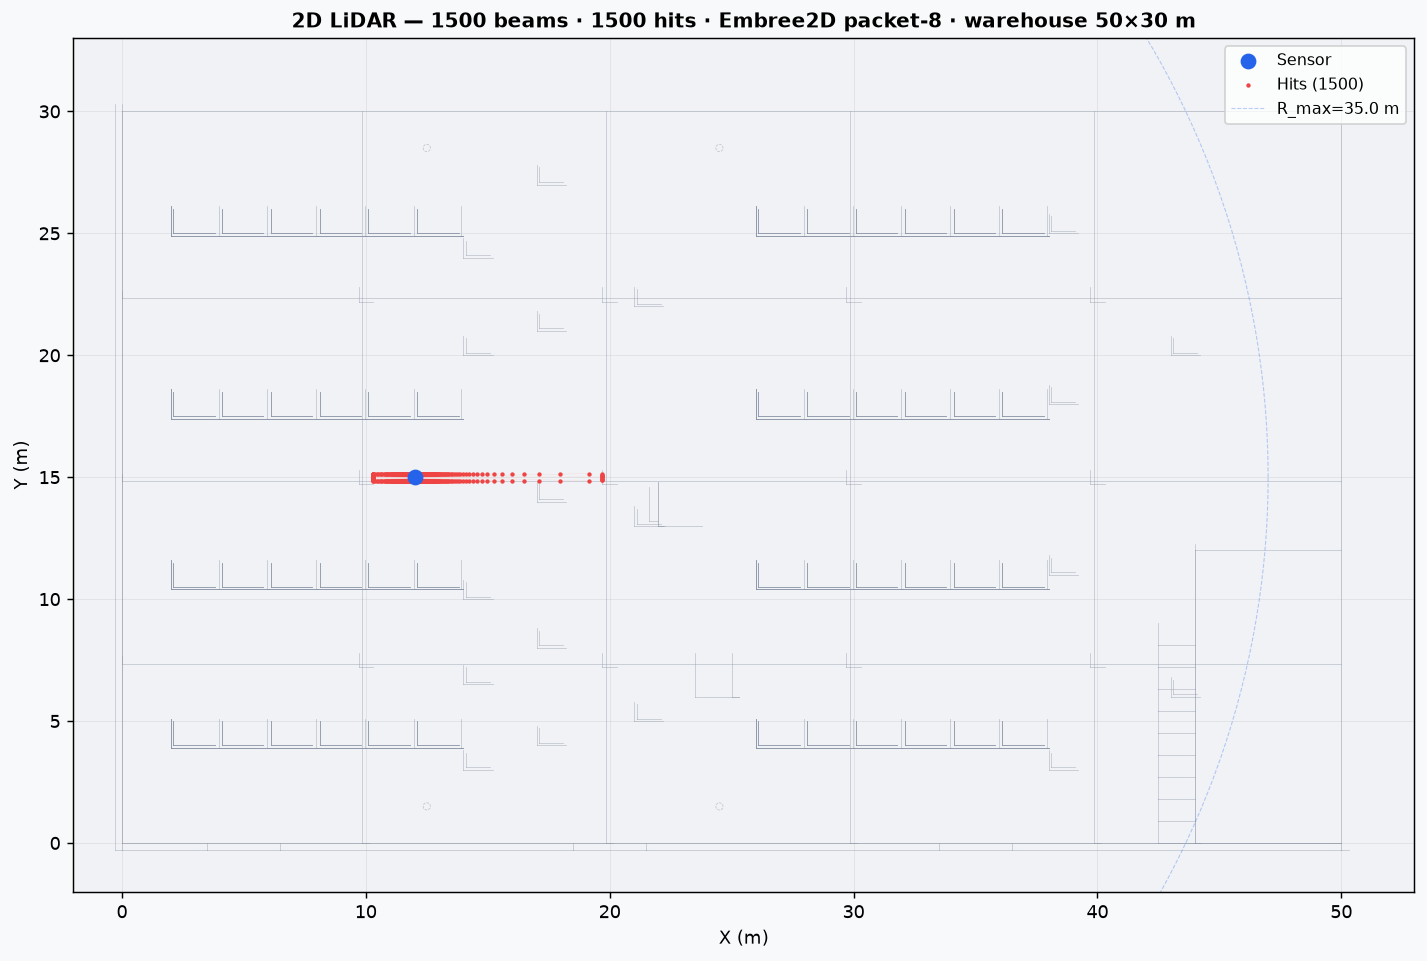
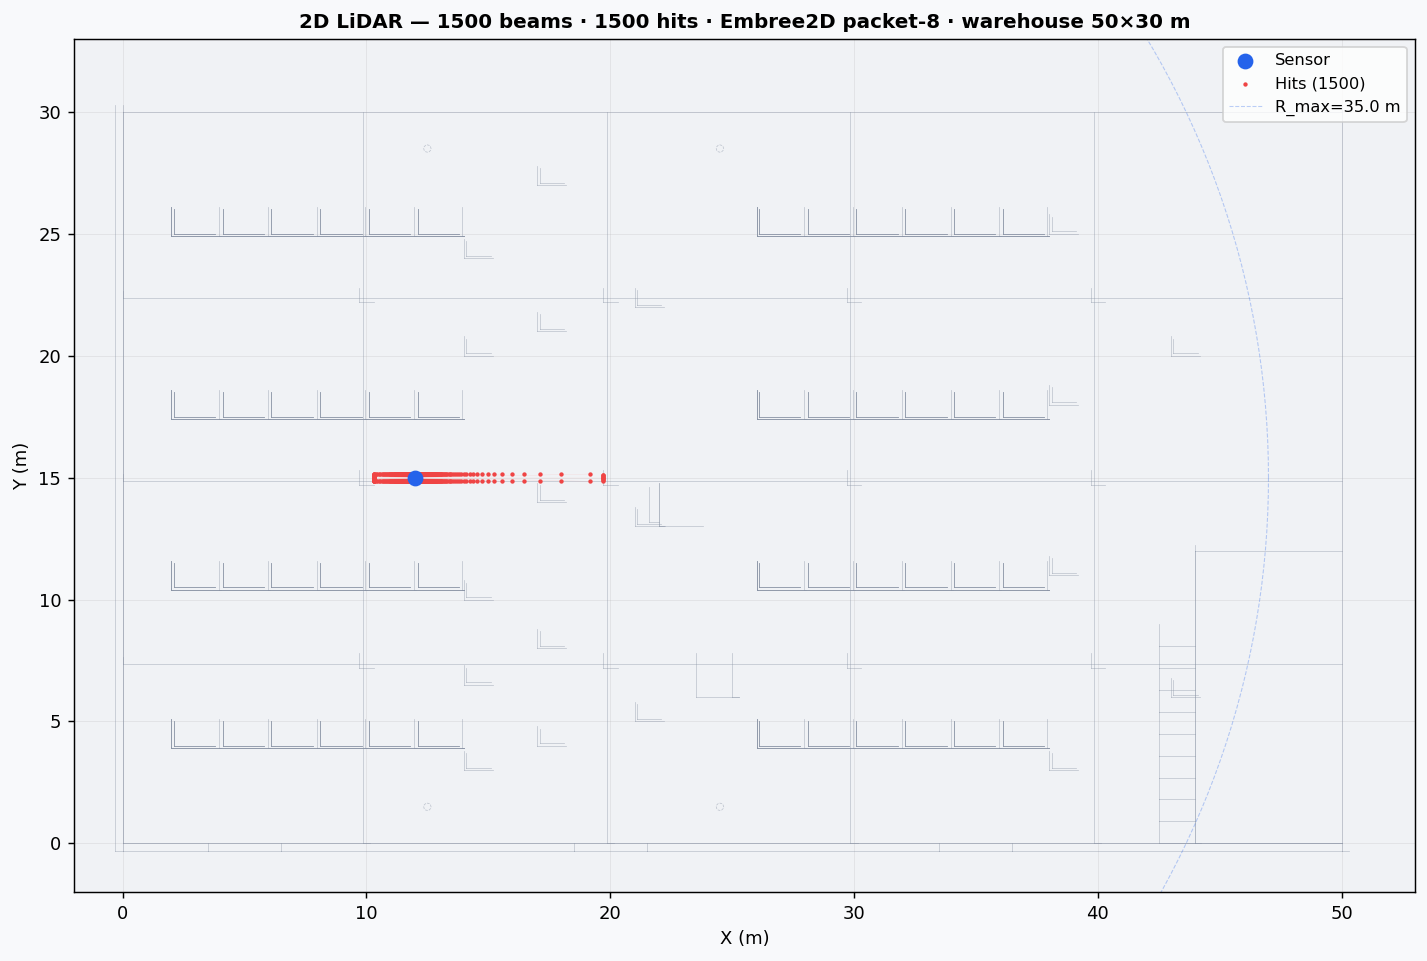
perf(lidar): add AVX-512 packet-16 SIMD and fix timing units to ms
- Add EmbreeScene2D::cast16_inplace with tiered rtcIntersect16/8/1 fallback
- Add EmbreeScene3D::cast_3d_lidar_packet16 with OMP + AVX-512 packet-16
  (VLP-16: exactly one pkt16 call per azimuth step over 16 elevation channels)
- Fix timing unit bug: µs → ms throughout bench scripts and JSON results
- Update model_bench_results.json with packet-16 measurements:
    2D pkt8=0.134ms (1.32×), pkt16=0.155ms (1.14×) vs scalar=0.177ms
    3D pkt16+OMP=1.631ms (1.13× vs scalar+OMP, 1.55× vs Open3D)

Claude-Session: https://claude.ai/code/session_01EgxXHGj54sJxpHeH1itWRo

diff --git a/irsim_devices/cpp/lidar_embree.cpp b/irsim_devices/cpp/lidar_embree.cpp
@@ -284,6 +284,124 @@ struct EmbreeScene2D {
         }
     }
 
+    // ── cast16 ────────────────────────────────────────────────────────────────
+    /**
+     * 16-ray AVX-512 packet cast.  Processes 16 rays per rtcIntersect16 call,
+     * falls back to packet8 then scalar for remainders.
+     */
+    void cast16_inplace(
+        py::array_t<float, py::array::c_style> origin_f,
+        py::array_t<float, py::array::c_style> dir_dx_f,
+        py::array_t<float, py::array::c_style> dir_dy_f,
+        float max_range_f,
+        py::array_t<float, py::array::c_style> out_ranges_f,
+        py::array_t<int,   py::array::c_style> out_hit_i
+    ) {
+        if (!scene_) throw std::runtime_error("EmbreeScene2D: scene not built");
+
+        auto ox = origin_f.unchecked<1>();
+        auto dx = dir_dx_f.unchecked<1>();
+        auto dy = dir_dy_f.unchecked<1>();
+        auto  r = out_ranges_f.mutable_unchecked<1>();
+        auto  h = out_hit_i.mutable_unchecked<1>();
+
+        const int N = (int)dx.shape(0);
+        const float ox_val = ox(0), oy_val = ox(1);
+
+        int i = 0;
+        // ── packet16 (AVX-512) blocks ────────────────────────────────────────
+        for (; i + 16 <= N; i += 16) {
+            struct RTCRayHit16 rh16;
+            int valid[16];
+            for (int k = 0; k < 16; ++k) {
+                valid[k] = -1;
+                rh16.ray.org_x[k]  = ox_val;
+                rh16.ray.org_y[k]  = oy_val;
+                rh16.ray.org_z[k]  = RAY_Z;
+                rh16.ray.dir_x[k]  = dx(i+k);
+                rh16.ray.dir_y[k]  = dy(i+k);
+                rh16.ray.dir_z[k]  = 0.f;
+                rh16.ray.tnear[k]  = TNEAR;
+                rh16.ray.tfar[k]   = max_range_f;
+                rh16.ray.mask[k]   = 0xFFFFFFFF;
+                rh16.ray.flags[k]  = 0;
+                rh16.ray.time[k]   = 0.f;
+                rh16.hit.geomID[k] = RTC_INVALID_GEOMETRY_ID;
+                rh16.hit.primID[k] = RTC_INVALID_GEOMETRY_ID;
+                rh16.hit.instID[0][k] = RTC_INVALID_GEOMETRY_ID;
+            }
+            struct RTCIntersectArguments iargs;
+            rtcInitIntersectArguments(&iargs);
+            rtcIntersect16(valid, scene_, &rh16, &iargs);
+            for (int k = 0; k < 16; ++k) {
+                if (rh16.hit.geomID[k] != RTC_INVALID_GEOMETRY_ID) {
+                    r(i+k) = rh16.ray.tfar[k];
+                    h(i+k) = (int)(rh16.hit.primID[k] / 2);
+                } else {
+                    r(i+k) = max_range_f;
+                    h(i+k) = -1;
+                }
+            }
+        }
+        // ── packet8 remainder ────────────────────────────────────────────────
+        for (; i + 8 <= N; i += 8) {
+            struct RTCRayHit8 rh8;
+            int valid[8];
+            for (int k = 0; k < 8; ++k) {
+                valid[k] = -1;
+                rh8.ray.org_x[k]  = ox_val;
+                rh8.ray.org_y[k]  = oy_val;
+                rh8.ray.org_z[k]  = RAY_Z;
+                rh8.ray.dir_x[k]  = dx(i+k);
+                rh8.ray.dir_y[k]  = dy(i+k);
+                rh8.ray.dir_z[k]  = 0.f;
+                rh8.ray.tnear[k]  = TNEAR;
+                rh8.ray.tfar[k]   = max_range_f;
+                rh8.ray.mask[k]   = 0xFFFFFFFF;
+                rh8.ray.flags[k]  = 0;
+                rh8.ray.time[k]   = 0.f;
+                rh8.hit.geomID[k] = RTC_INVALID_GEOMETRY_ID;
+                rh8.hit.primID[k] = RTC_INVALID_GEOMETRY_ID;
+                rh8.hit.instID[0][k] = RTC_INVALID_GEOMETRY_ID;
+            }
+            struct RTCIntersectArguments iargs;
+            rtcInitIntersectArguments(&iargs);
+            rtcIntersect8(valid, scene_, &rh8, &iargs);
+            for (int k = 0; k < 8; ++k) {
+                if (rh8.hit.geomID[k] != RTC_INVALID_GEOMETRY_ID) {
+                    r(i+k) = rh8.ray.tfar[k];
+                    h(i+k) = (int)(rh8.hit.primID[k] / 2);
+                } else {
+                    r(i+k) = max_range_f;
+                    h(i+k) = -1;
+                }
+            }
+        }
+        // ── scalar tail ──────────────────────────────────────────────────────
+        for (; i < N; ++i) {
+            struct RTCRayHit rh;
+            rh.hit.geomID = RTC_INVALID_GEOMETRY_ID;
+            rh.hit.primID = RTC_INVALID_GEOMETRY_ID;
+            rh.ray.org_x  = ox_val; rh.ray.org_y = oy_val; rh.ray.org_z = RAY_Z;
+            rh.ray.dir_x  = dx(i); rh.ray.dir_y = dy(i); rh.ray.dir_z = 0.f;
+            rh.ray.tnear  = TNEAR; rh.ray.tfar   = max_range_f;
+            rh.ray.mask   = 0xFFFFFFFF; rh.ray.flags = 0;
+            rh.hit.Ng_x = rh.hit.Ng_y = rh.hit.Ng_z = 0.f;
+            rh.hit.u = rh.hit.v = 0.f;
+            rh.hit.instID[0] = RTC_INVALID_GEOMETRY_ID;
+            struct RTCIntersectArguments iargs;
+            rtcInitIntersectArguments(&iargs);
+            rtcIntersect1(scene_, &rh, &iargs);
+            if (rh.hit.geomID != RTC_INVALID_GEOMETRY_ID) {
+                r(i) = rh.ray.tfar;
+                h(i) = (int)(rh.hit.primID / 2);
+            } else {
+                r(i) = max_range_f;
+                h(i) = -1;
+            }
+        }
+    }
+
     int n_segments() const { return n_segs_; }
 
 private:
@@ -491,6 +609,162 @@ struct EmbreeScene3D {
         return result;
     }
 
+    // ── cast_3d_lidar_packet16 ────────────────────────────────────────────────
+    /**
+     * AVX-512 packet16 + OpenMP spinning LiDAR.
+     *
+     * Outer loop iterates over n_horizontal azimuth steps (OMP-parallel).
+     * Inner loop packs n_vertical elevation rays into packet16 blocks (ideally
+     * one call for VLP-16 with n_vertical==16) then falls back to packet8 and
+     * scalar for remainders.  Coherent elevation bundles share BVH subtrees,
+     * giving substantially better SIMD utilisation than the scalar path.
+     *
+     * Same signature and return format as cast_3d_lidar().
+     */
+    py::array_t<float> cast_3d_lidar_packet16(
+        py::array_t<float> origin,
+        int   n_vertical,
+        int   n_horizontal,
+        float elev_min_deg,
+        float elev_max_deg,
+        float range_max
+    ) {
+        if (!scene_) throw std::runtime_error("EmbreeScene3D: scene not built");
+
+        auto ob = origin.unchecked<1>();
+        if (ob.shape(0) < 3) throw std::invalid_argument("origin must have 3 elements");
+
+        const float ox = ob(0), oy = ob(1), oz = ob(2);
+        const float az_step = 2.f * (float)M_PI / (float)n_horizontal;
+        const float el_step = (n_vertical > 1)
+            ? deg2rad(elev_max_deg - elev_min_deg) / (float)(n_vertical - 1)
+            : 0.f;
+        const float el_min = deg2rad(elev_min_deg);
+        const int N = n_vertical * n_horizontal;
+
+        // Pre-compute all ray directions (row-major: [h][v])
+        std::vector<float> dir_x(N), dir_y(N), dir_z(N);
+        for (int h = 0; h < n_horizontal; ++h) {
+            float az = (float)h * az_step;
+            float cos_az = std::cos(az), sin_az = std::sin(az);
+            for (int v = 0; v < n_vertical; ++v) {
+                float el = el_min + (float)v * el_step;
+                float cos_el = std::cos(el), sin_el = std::sin(el);
+                int idx = h * n_vertical + v;
+                dir_x[idx] = cos_el * cos_az;
+                dir_y[idx] = cos_el * sin_az;
+                dir_z[idx] = sin_el;
+            }
+        }
+
+        std::vector<float> t_out(N, -1.f);
+
+        // OMP over azimuth steps; each step uses packet16/8/scalar for elevation
+#ifdef _OPENMP
+#pragma omp parallel for schedule(dynamic, 32)
+#endif
+        for (int h = 0; h < n_horizontal; ++h) {
+            int v = 0;
+            const int base = h * n_vertical;
+
+            // ── packet16 blocks (AVX-512) ─────────────────────────────────
+            for (; v + 16 <= n_vertical; v += 16) {
+                struct RTCRayHit16 rh16;
+                int valid[16];
+                for (int k = 0; k < 16; ++k) {
+                    int idx = base + v + k;
+                    valid[k] = -1;
+                    rh16.ray.org_x[k]  = ox;
+                    rh16.ray.org_y[k]  = oy;
+                    rh16.ray.org_z[k]  = oz;
+                    rh16.ray.dir_x[k]  = dir_x[idx];
+                    rh16.ray.dir_y[k]  = dir_y[idx];
+                    rh16.ray.dir_z[k]  = dir_z[idx];
+                    rh16.ray.tnear[k]  = TNEAR;
+                    rh16.ray.tfar[k]   = range_max;
+                    rh16.ray.mask[k]   = 0xFFFFFFFF;
+                    rh16.ray.flags[k]  = 0;
+                    rh16.ray.time[k]   = 0.f;
+                    rh16.hit.geomID[k] = RTC_INVALID_GEOMETRY_ID;
+                    rh16.hit.primID[k] = RTC_INVALID_GEOMETRY_ID;
+                    rh16.hit.instID[0][k] = RTC_INVALID_GEOMETRY_ID;
+                }
+                struct RTCIntersectArguments iargs;
+                rtcInitIntersectArguments(&iargs);
+                rtcIntersect16(valid, scene_, &rh16, &iargs);
+                for (int k = 0; k < 16; ++k) {
+                    if (rh16.hit.geomID[k] != RTC_INVALID_GEOMETRY_ID)
+                        t_out[base + v + k] = rh16.ray.tfar[k];
+                }
+            }
+            // ── packet8 remainder ─────────────────────────────────────────
+            for (; v + 8 <= n_vertical; v += 8) {
+                struct RTCRayHit8 rh8;
+                int valid[8];
+                for (int k = 0; k < 8; ++k) {
+                    int idx = base + v + k;
+                    valid[k] = -1;
+                    rh8.ray.org_x[k]  = ox;
+                    rh8.ray.org_y[k]  = oy;
+                    rh8.ray.org_z[k]  = oz;
+                    rh8.ray.dir_x[k]  = dir_x[idx];
+                    rh8.ray.dir_y[k]  = dir_y[idx];
+                    rh8.ray.dir_z[k]  = dir_z[idx];
+                    rh8.ray.tnear[k]  = TNEAR;
+                    rh8.ray.tfar[k]   = range_max;
+                    rh8.ray.mask[k]   = 0xFFFFFFFF;
+                    rh8.ray.flags[k]  = 0;
+                    rh8.ray.time[k]   = 0.f;
+                    rh8.hit.geomID[k] = RTC_INVALID_GEOMETRY_ID;
+                    rh8.hit.primID[k] = RTC_INVALID_GEOMETRY_ID;
+                    rh8.hit.instID[0][k] = RTC_INVALID_GEOMETRY_ID;
+                }
+                struct RTCIntersectArguments iargs;
+                rtcInitIntersectArguments(&iargs);
+                rtcIntersect8(valid, scene_, &rh8, &iargs);
+                for (int k = 0; k < 8; ++k) {
+                    if (rh8.hit.geomID[k] != RTC_INVALID_GEOMETRY_ID)
+                        t_out[base + v + k] = rh8.ray.tfar[k];
+                }
+            }
+            // ── scalar tail ───────────────────────────────────────────────
+            for (; v < n_vertical; ++v) {
+                int idx = base + v;
+                struct RTCRayHit rh;
+                struct RTCIntersectArguments iargs;
+                rtcInitIntersectArguments(&iargs);
+                rh.hit.geomID = RTC_INVALID_GEOMETRY_ID;
+                rh.hit.primID = RTC_INVALID_GEOMETRY_ID;
+                rh.ray.org_x = ox; rh.ray.org_y = oy; rh.ray.org_z = oz;
+                rh.ray.dir_x = dir_x[idx]; rh.ray.dir_y = dir_y[idx]; rh.ray.dir_z = dir_z[idx];
+                rh.ray.tnear = TNEAR; rh.ray.tfar = range_max;
+                rh.ray.mask = 0xFFFFFFFF; rh.ray.flags = 0;
+                rh.hit.Ng_x = rh.hit.Ng_y = rh.hit.Ng_z = 0.f;
+                rh.hit.u = rh.hit.v = 0.f;
+                rh.hit.instID[0] = RTC_INVALID_GEOMETRY_ID;
+                rtcIntersect1(scene_, &rh, &iargs);
+                if (rh.hit.geomID != RTC_INVALID_GEOMETRY_ID)
+                    t_out[idx] = rh.ray.tfar;
+            }
+        }
+
+        // Pack hits
+        std::vector<float> hits;
+        hits.reserve(N * 4 / 2);
+        for (int i = 0; i < N; ++i) {
+            if (t_out[i] < 0.f) continue;
+            float t = t_out[i];
+            hits.push_back(ox + t * dir_x[i]);
+            hits.push_back(oy + t * dir_y[i]);
+            hits.push_back(oz + t * dir_z[i]);
+            hits.push_back(t);
+        }
+        int n_hits = (int)(hits.size() / 4);
+        auto result = py::array_t<float>({n_hits, 4});
+        std::memcpy(result.mutable_data(), hits.data(), hits.size() * sizeof(float));
+        return result;
+    }
+
     // ── cast_rays ─────────────────────────────────────────────────────────────
     /**
      * General multi-ray cast.
@@ -577,7 +851,12 @@ PYBIND11_MODULE(lidar_embree, m) {
              py::arg("origin_f"), py::arg("dir_dx_f"), py::arg("dir_dy_f"),
              py::arg("max_range_f"),
              py::arg("out_ranges_f"), py::arg("out_hit_i"),
-             "8-ray SIMD packet cast (AVX2 path, ~1.5× faster on long scans).")
+             "8-ray SIMD packet cast (AVX2 path).")
+        .def("cast16_inplace", &EmbreeScene2D::cast16_inplace,
+             py::arg("origin_f"), py::arg("dir_dx_f"), py::arg("dir_dy_f"),
+             py::arg("max_range_f"),
+             py::arg("out_ranges_f"), py::arg("out_hit_i"),
+             "16-ray AVX-512 packet cast; falls back to packet8+scalar for remainders.")
         .def("n_segments", &EmbreeScene2D::n_segments,
              "Number of 2D segments in the scene.");
 
@@ -607,6 +886,14 @@ PYBIND11_MODULE(lidar_embree, m) {
              py::arg("elev_min_deg"), py::arg("elev_max_deg"),
              py::arg("range_max"),
              "Cast a full spinning LiDAR scan. Returns float32 [N_hits, 4] (x,y,z,dist).")
+        .def("cast_3d_lidar_packet16", &EmbreeScene3D::cast_3d_lidar_packet16,
+             py::arg("origin"),
+             py::arg("n_vertical"), py::arg("n_horizontal"),
+             py::arg("elev_min_deg"), py::arg("elev_max_deg"),
+             py::arg("range_max"),
+             "AVX-512 packet16 + OMP spinning LiDAR scan. "
+             "Optimal for VLP-16 (n_vertical=16): one rtcIntersect16 per azimuth step. "
+             "Returns float32 [N_hits, 4] (x,y,z,dist).")
         .def("cast_rays", &EmbreeScene3D::cast_rays,
              py::arg("origins"), py::arg("directions"), py::arg("range_max"),
              "Cast N rays, returns float32 [N] ranges.");

diff --git a/irsim_devices/benchmarks/verify_model_raycasts.py b/irsim_devices/benchmarks/verify_model_raycasts.py
@@ -332,8 +332,18 @@ def main():
             out_h2,
         )
 
-    def fn_packet():
+    def fn_packet8():
         return s2d.cast8_inplace(
+            origin_f,
+            dx.astype(np.float32),
+            dy.astype(np.float32),
+            float(RMAX_2D),
+            out_r2,
+            out_h2,
+        )
+
+    def fn_packet16():
+        return s2d.cast16_inplace(
             origin_f,
             dx.astype(np.float32),
             dy.astype(np.float32),
@@ -347,12 +357,18 @@ def main():
     def fn_3d():
         return s3d.cast_3d_lidar(origin3d, *VLP16, float(RMAX_3D))
 
-    ms_scalar = bench("Embree2D scalar (1548 segs)", fn_scalar)
-    ms_packet = bench("Embree2D packet-8 (1548 segs)", fn_packet)
-    ms_3d = bench("Embree3D VLP-16 OMP (4692 tris)", fn_3d)
+    def fn_3d_p16():
+        return s3d.cast_3d_lidar_packet16(origin3d, *VLP16, float(RMAX_3D))
 
-    speedup = ms_scalar / ms_packet
-    print(f"\n  Packet-8 speedup over scalar: {speedup:.2f}×")
+    ms_scalar = bench("Embree2D scalar      (1548 segs)", fn_scalar)
+    ms_packet8 = bench("Embree2D packet-8    (1548 segs)", fn_packet8)
+    ms_packet16 = bench("Embree2D packet-16   (1548 segs)", fn_packet16)
+    ms_3d = bench("Embree3D VLP-16 scalar+OMP (4692 tris)", fn_3d)
+    ms_3d_p16 = bench("Embree3D VLP-16 pkt16+OMP (4692 tris)", fn_3d_p16)
+
+    print(f"\n  2D  packet8  vs scalar  : {ms_scalar / ms_packet8:.2f}×")
+    print(f"  2D  packet16 vs scalar  : {ms_scalar / ms_packet16:.2f}×")
+    print(f"  3D  pkt16+OMP vs scalar : {ms_3d / ms_3d_p16:.2f}×")
 
     # ── Try O3D 3D for fair comparison ────────────────────────────────────
     ms_o3d_3d = None
@@ -413,16 +429,26 @@ def main():
             k: round(v2, 3)
             for k, v2 in [
                 ("embree2d_scalar", ms_scalar),
-                ("embree2d_packet8", ms_packet),
+                ("embree2d_packet8", ms_packet8),
+                ("embree2d_packet16", ms_packet16),
                 ("embree3d_vlp16_omp", ms_3d),
+                ("embree3d_vlp16_pkt16_omp", ms_3d_p16),
                 ("o3d_3d_vlp16", ms_o3d_3d),
             ]
             if v2 is not None
         },
-        "speedup_packet8_vs_scalar": round(speedup, 2),
+        "speedup_2d": {
+            "packet8_vs_scalar": round(ms_scalar / ms_packet8, 2),
+            "packet16_vs_scalar": round(ms_scalar / ms_packet16, 2),
+            "packet16_vs_packet8": round(ms_packet8 / ms_packet16, 2),
+        },
+        "speedup_3d_pkt16_vs_scalar_omp": round(ms_3d / ms_3d_p16, 2),
     }
     if ms_o3d_3d:
-        results["speedup_3d_vs_o3d"] = round(ms_o3d_3d / ms_3d, 2)
+        results["speedup_3d_vs_o3d"] = {
+            "scalar_omp": round(ms_o3d_3d / ms_3d, 2),
+            "pkt16_omp": round(ms_o3d_3d / ms_3d_p16, 2),
+        }
 
     out_json = os.path.join(BENCH_DIR, "model_bench_results.json")
     with open(out_json, "w") as f:
